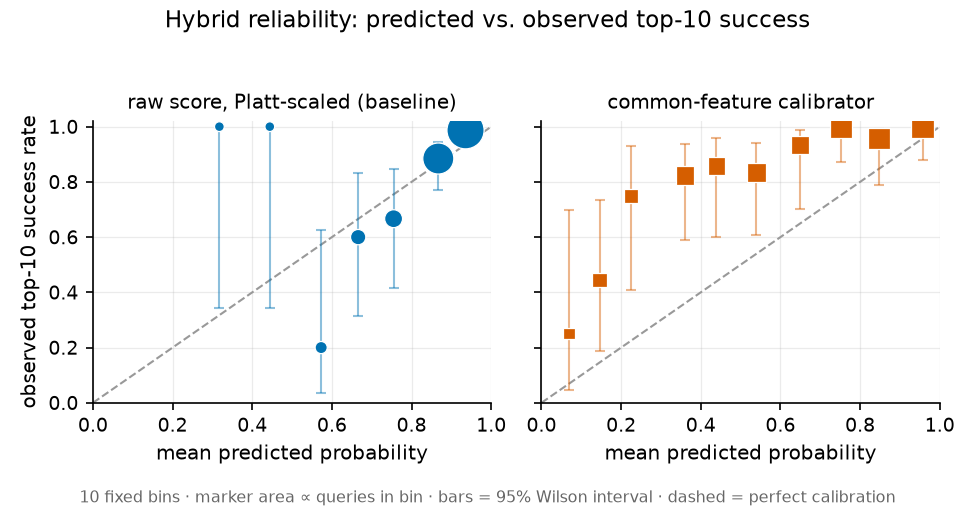
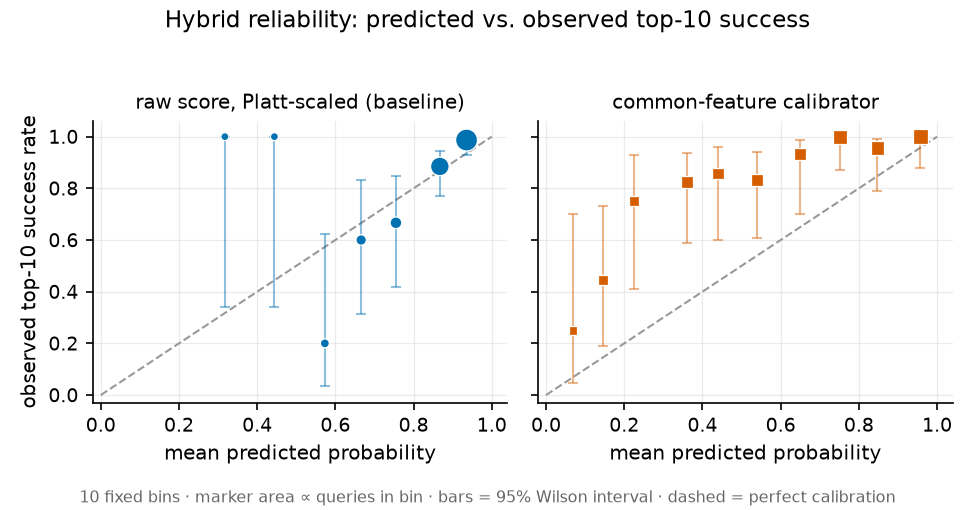
fix: stop the largest reliability marker overflowing the axes

diff --git a/retrieval/plots.py b/retrieval/plots.py
@@ -321,10 +321,12 @@ def plot_reliability(
             alpha=0.45,
             zorder=2,
         )
-        ax.scatter(xs, ys, s=[14 + 4 * count for count in counts], facecolor=color,
+        # Area stays proportional to bin count, but the constant is small enough that the
+        # largest bin (n=76) does not overflow the axes and collide with its neighbour.
+        ax.scatter(xs, ys, s=[12 + 1.3 * count for count in counts], facecolor=color,
                    edgecolor="white", linewidth=0.6, marker=marker, zorder=3)
-        ax.set_xlim(0.0, 1.0)
-        ax.set_ylim(0.0, 1.02)
+        ax.set_xlim(-0.02, 1.04)
+        ax.set_ylim(-0.03, 1.06)
         ax.set_xlabel("mean predicted probability")
         ax.set_title(label, fontsize=9.5)
         ax.grid(alpha=0.25)
